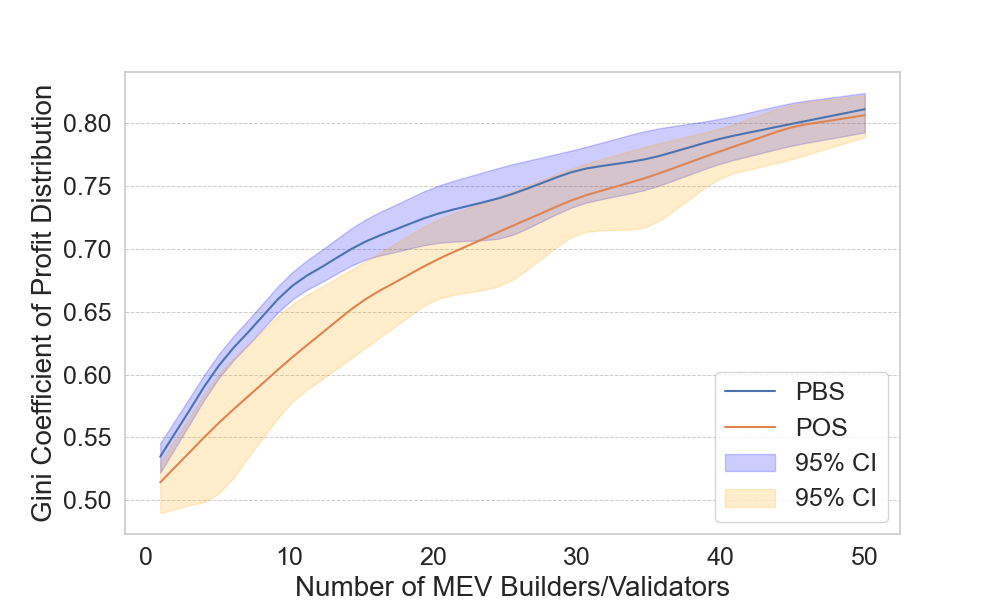
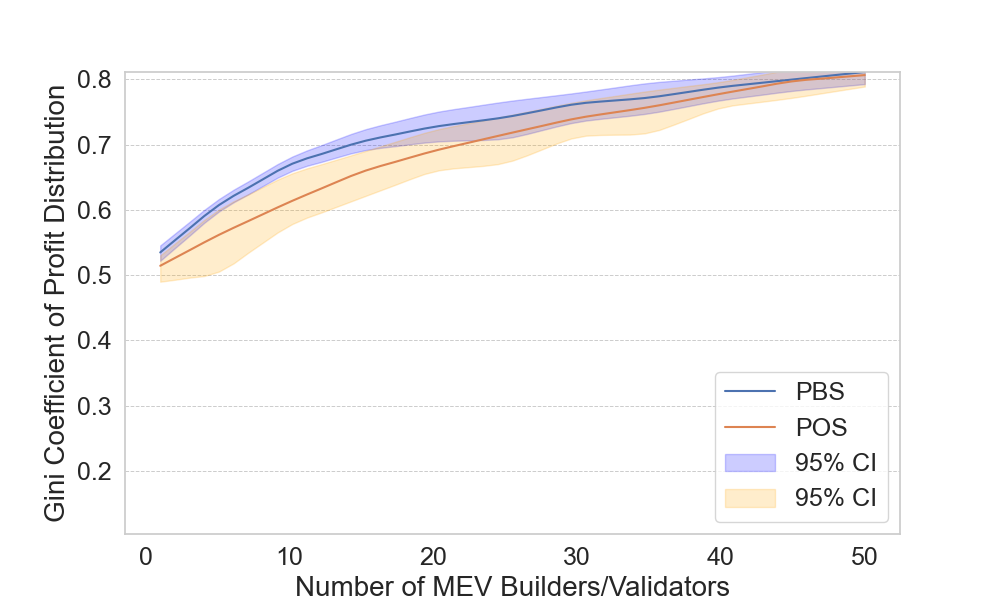
same axis

Changed region(s): [[0.155, 0.12, 0.868, 0.87], [0.031, 0.12, 0.124, 0.87]]

diff --git a/plots/new/vary_user.py b/plots/new/vary_user.py
@@ -72,7 +72,7 @@ def interpolate_and_smooth(x, y, num_points=49, window_length=5, polyorder=2):
     y_smooth = savgol_filter(y_new, window_length, polyorder)
     return x_new, y_smooth
 
-def plot_gini_with_confidence(data_dir, mev_counts, output_file):
+def plot_gini_with_confidence(data_dir, mev_counts, output_file, ylim=None):
     profits = load_profits(data_dir, mev_counts)
     gini_stats = calculate_gini_statistics(profits)
 
@@ -102,21 +102,41 @@ def plot_gini_with_confidence(data_dir, mev_counts, output_file):
     ax.set_xlabel('Number of MEV Builders/Validators', fontsize=20)
     ax.set_ylabel('Gini Coefficient of Profit Distribution', fontsize=20)
     ax.tick_params(axis='both', which='major', labelsize=18)
-    ax.legend(fontsize=18, loc='lower right')
+    ax.legend(fontsize=18, loc='lower right')  # Move legend to bottom-right corner
     ax.grid(True)
     ax.xaxis.grid(True)
     ax.yaxis.grid(True)
     ax.xaxis.grid(False)
     ax.yaxis.grid(True, which='both', linestyle='--', linewidth=0.7)
 
+    if ylim:
+        ax.set_ylim(ylim)
+
     plt.savefig(output_file)
     plt.close()
 
+def get_y_axis_limits(data_dirs, mev_counts):
+    all_gini_values = []
+
+    for data_dir in data_dirs:
+        profits = load_profits(data_dir, mev_counts)
+        gini_stats = calculate_gini_statistics(profits)
+
+        for system in ['pbs', 'pos']:
+            all_gini_values.extend([gini_stats[system].get(mc, (np.nan, np.nan, np.nan))[0] for mc in mev_counts])
+
+    min_y = min(all_gini_values)
+    max_y = max(all_gini_values)
+    return min_y, max_y
+
 if __name__ == "__main__":
     mev_counts = list(range(1, 51))
-    data_dir = 'data/100_runs'
-    plot_gini_with_confidence(data_dir, mev_counts, 'figures/new/smooth_gini_coefficient.png')
+    data_dir_default = 'data/100_runs'
     data_dir_attackall = 'data/100run_attackall'
-    plot_gini_with_confidence(data_dir_attackall, mev_counts, 'figures/new/smooth_gini_coefficient_attackall.png')
     data_dir_attacknon = 'data/100run_attacknon'
-    plot_gini_with_confidence(data_dir_attacknon, mev_counts, 'figures/new/smooth_gini_coefficient_attacknon.png')
+
+    ylim = get_y_axis_limits([data_dir_default, data_dir_attackall, data_dir_attacknon], mev_counts)
+
+    plot_gini_with_confidence(data_dir_default, mev_counts, 'figures/new/smooth_gini_coefficient.png', ylim)
+    plot_gini_with_confidence(data_dir_attackall, mev_counts, 'figures/new/smooth_gini_coefficient_attackall.png', ylim)
+    plot_gini_with_confidence(data_dir_attacknon, mev_counts, 'figures/new/smooth_gini_coefficient_attacknon.png', ylim)
